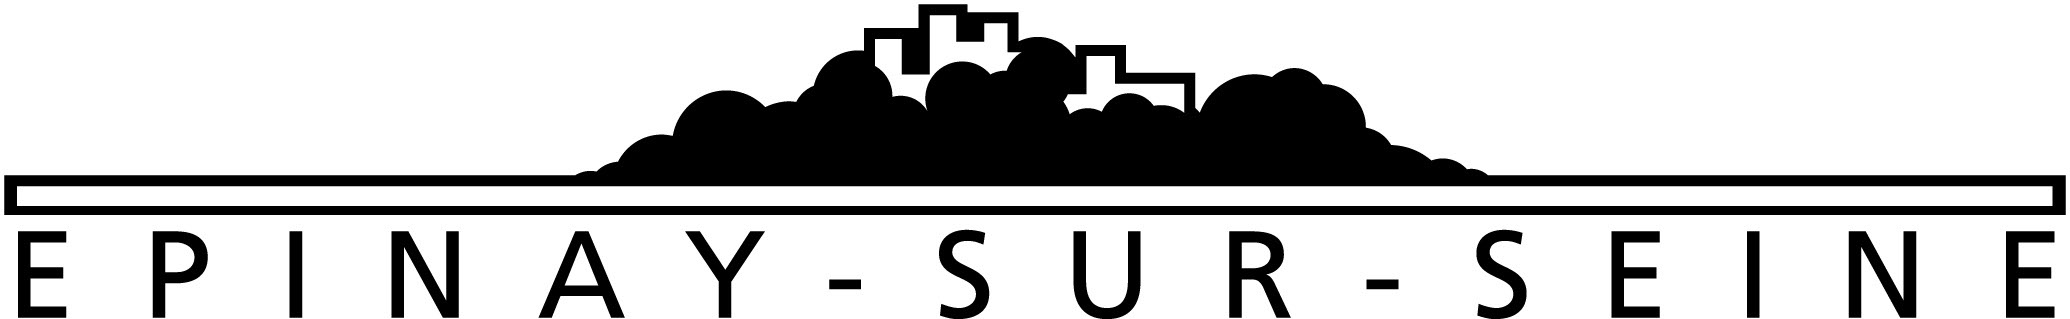
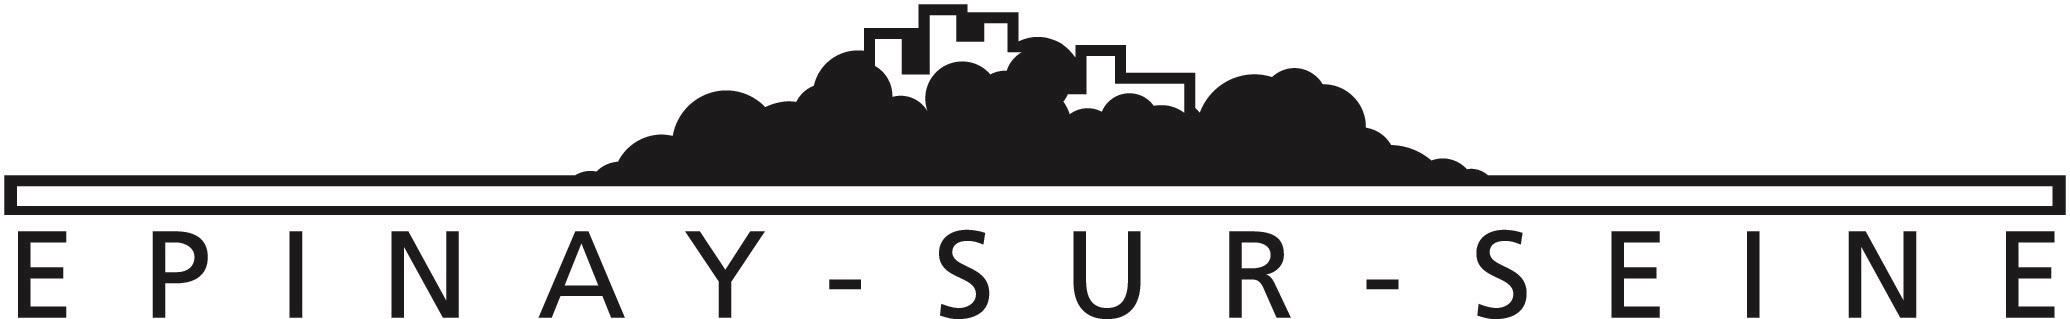
fix(images): convertir en sRVB les sept JPEG encodés en CMJN
Demande cliente, issue #23 : « colorimétrie devenue vert fluo sur
ordinateur » sur La Pièce. Cause prouvée sur les fichiers : les deux
images d'ouverture (page-14) sont des JPEG CMJN, que les navigateurs
rendent mal. Toutes les autres images de la page sont en sRVB.

Le même défaut touchait cinq autres fichiers : pages 21 et 22 du
roman graphique, page-41-image-3 (quiz), page-50-image-1 (Marilyn)
et projects/nivues/fond-noir.jpg.

Conversion avec le profil sRVB du système, qualité 90, dimensions
inchangées ; teinte comparée à l'export de la cliente (bichromie
turquoise). Poids total ramené de 9,6 à 3,4 Mo.

Test écrit avant la conversion : lecture de l'en-tête de chaque
JPEG de src/img, quatre composantes interdites. Il désignait les
sept mêmes fichiers que sips ; 1 échec, puis 1 passé ; suite
complète à 491 passés.

diff --git a/tests/images-espace-colorimetrique.spec.js b/tests/images-espace-colorimetrique.spec.js
@@ -1,0 +1,40 @@
+const { test, expect } = require('@playwright/test');
+const fs = require('fs');
+const path = require('path');
+
+// Issue #23 : « colorimétrie devenue vert fluo sur ordinateur ». Cause : des JPEG exportés en CMJN,
+// que les navigateurs rendent mal. Un JPEG pour le web a 1 composante (gris) ou 3 (RVB/YCbCr) ; 4 = CMJN.
+function lireComposantes(fichier) {
+  const b = fs.readFileSync(fichier);
+  let i = 2;
+  while (i + 9 < b.length) {
+    if (b[i] !== 0xff) { i += 1; continue; }
+    const m = b[i + 1];
+    // SOF0 à SOF15, hors DHT (C4), JPG (C8) et DAC (CC)
+    if (m >= 0xc0 && m <= 0xcf && m !== 0xc4 && m !== 0xc8 && m !== 0xcc) return b[i + 9];
+    if (m === 0xd8 || m === 0x01 || (m >= 0xd0 && m <= 0xd7)) { i += 2; continue; }
+    i += 2 + b.readUInt16BE(i + 2);
+  }
+  return null;
+}
+
+function listerJpeg(dossier) {
+  return fs.readdirSync(dossier, { withFileTypes: true }).flatMap((e) => {
+    const p = path.join(dossier, e.name);
+    if (e.isDirectory()) return listerJpeg(p);
+    return /\.jpe?g$/i.test(e.name) ? [p] : [];
+  });
+}
+
+test('Images : aucun JPEG du site n\'est en CMJN', async ({}, testInfo) => {
+  test.skip(testInfo.project.name !== 'desktop-1920', 'Contrôle de fichiers : exécuté une seule fois.');
+  const racine = path.join(__dirname, '..', 'src', 'img');
+  const fichiers = listerJpeg(racine);
+  expect(fichiers.length, 'des JPEG ont été trouvés').toBeGreaterThan(50);
+  // Quelques fichiers « .jpg » du site sont en réalité des PNG (toujours RVB) : seuls les vrais JPEG sont contrôlés.
+  const vraisJpeg = fichiers.filter((f) => { const b = fs.readFileSync(f); return b[0] === 0xff && b[1] === 0xd8; });
+  const illisibles = vraisJpeg.filter((f) => lireComposantes(f) === null).map((f) => path.relative(racine, f));
+  expect(illisibles, 'en-tête JPEG lisible').toEqual([]);
+  const cmjn = vraisJpeg.filter((f) => lireComposantes(f) === 4).map((f) => path.relative(racine, f));
+  expect(cmjn, 'JPEG en CMJN à convertir en sRVB').toEqual([]);
+});

diff --git a/CHANGELOG.MD b/CHANGELOG.MD
@@ -2,6 +2,7 @@
 
 ## 2026-09-19
 
+- Colorimétrie (issue #23, « vert fluo sur ordinateur ») : sept JPEG du site étaient encodés en CMJN, que les navigateurs rendent mal — les deux images d’ouverture de La Pièce (`page-14`), les pages 21 et 22 du roman graphique, `page-41-image-3` (quiz), `page-50-image-1` (Marilyn) et `projects/nivues/fond-noir.jpg`. Convertis en sRVB avec le profil système, dimensions inchangées, teinte conforme à l’export de la cliente, poids total ramené de 9,6 à 3,4 Mo. Test `tests/images-espace-colorimetrique.spec.js` : aucun JPEG du site ne doit avoir quatre composantes. Les navigateurs ayant déjà ces images en cache gardent l’ancienne version jusqu’à expiration.
 - Composition électroacoustique (issue #28, partie pages) : les deux pages portent désormais la mention « Compositeur Michel Berthier » sous le titre, comme sur les exports de la cliente. Sur `#page-32`, le bandeau photo (3138 x 582) était affiché en `object-fit: cover` dans une case de ratio 2,3 et perdait 58 % de sa surface sur ordinateur, jusqu’à 78 % sur mobile ; la grande photo était rognée de 25 à 48 % sous 768 px. Les deux photos sont maintenant entières à toutes les largeurs, la grande photo mordant sur l’aplat jaune, titre et mention entre les deux. `#page-31` garde sa composition : photo de gauche entière, photo de droite à bord perdu comme sur l’export. Écart volontaire : l’export écrit « electoacoustique », le site garde l’orthographe correcte. Le volet sonore attend toujours les trois fichiers audio. Cache-buster CSS de la page ; test `tests/t28-composition.spec.js` à cinq largeurs.
 - Photographies, sixième page (issue #27 terminée côté pages, avance l’issue #28) : la section `#page-30` « IA - milton greene » quitte `monroe-composition.html` pour `monroe-photographie.html`, qui compte désormais ses six pages. Comme sur l’export, les deux photos carrées ont la même taille (elles mesuraient 652 et 422 px à 1920 px, 730 et 422 px à 768 px), côte à côte jusqu’à 768 px puis empilées, entières, légende en italique sous la première. La seconde photo n’existe qu’en 422 px : elle est agrandie à l’affichage, source mieux définie à demander. `monroe-composition.html` ne garde que `#page-31` et `#page-32` : leurs titres masqués passent de `h3` à `h2` (plus de saut de niveau, RGAA 9.1) et l’image de partage pointe vers une image restée dans la page. Les anciennes ancres `index.html#page-27` à `#page-30` mènent à Photographie ; cache-buster `js/main.js` mis à jour sur les 28 pages, cache-buster CSS sur les deux pages ; test `tests/t27-photographies-page-30.spec.js`.
 - Photographies, cinquième page (issue #27, avance l’issue #28) : la section `#page-29` « IA - milton greene » (triptyque noir et rouge) quitte `monroe-composition.html` pour `monroe-photographie.html`, après `#page-28`. Géométrie mesurée avant déplacement et déjà conforme à l’export aux cinq largeurs (photo de 3218 px entière, légende en italique partant de son bord gauche) : aucun changement de style. L’ancienne ancre `index.html#page-29` mène à la page Photographie ; même écart volontaire de couleur de titre. Cache-buster CSS mis à jour sur les deux pages ; test `tests/t27-photographies-page-29.spec.js`.
